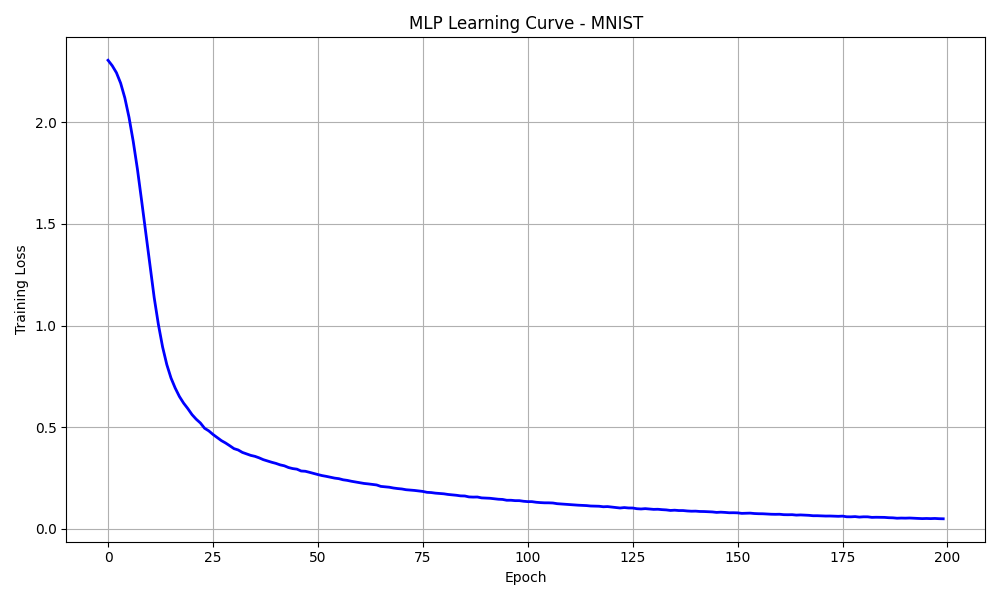
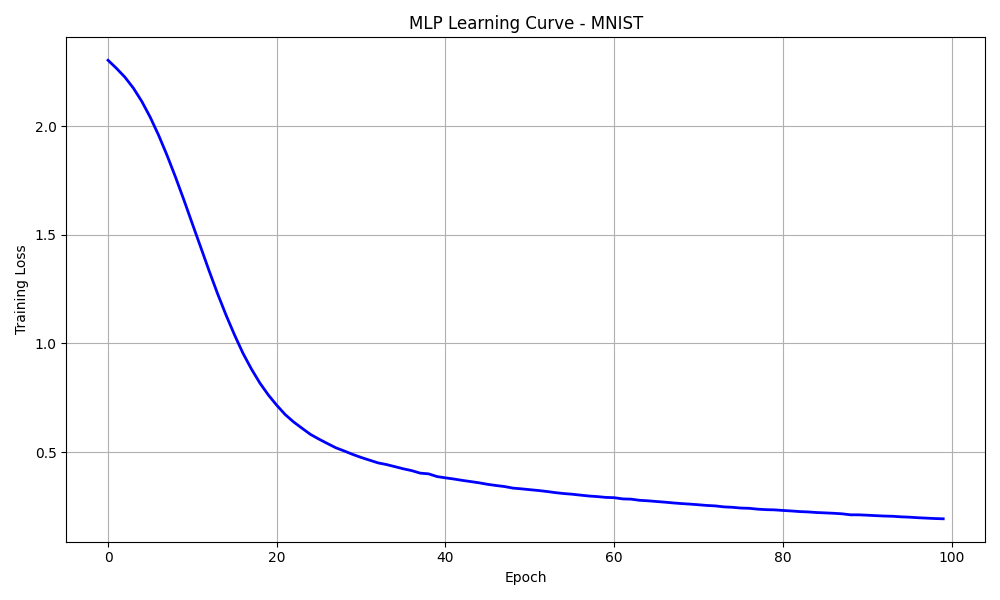
Final stage 2 model with dropout

diff --git a/code/stage_2_code/Method_MLP.py b/code/stage_2_code/Method_MLP.py
@@ -14,7 +14,7 @@ import numpy as np
 
 class Method_MLP(method, nn.Module):
     data = None
-    max_epoch = 200
+    max_epoch = 100
     learning_rate = 1e-3
     loss_history = []
 
@@ -22,25 +22,18 @@ class Method_MLP(method, nn.Module):
         method.__init__(self, mName, mDescription)
         nn.Module.__init__(self)
 
-        # ===== Bigger architecture: 784 -> 512 -> 256 -> 128 -> 10 =====
-        self.fc_layer_1 = nn.Linear(784, 512)
-        self.fc_layer_2 = nn.Linear(512, 256)
-        self.fc_layer_3 = nn.Linear(256, 128)
-        self.fc_layer_4 = nn.Linear(128, 10)
+        # ===== Model architecture: 784 -> 256 -> 128 -> 10 =====
+        self.fc_layer_1 = nn.Linear(784, 256)
+        self.fc_layer_2 = nn.Linear(256, 128)
+        self.fc_layer_3 = nn.Linear(128, 10)
 
         self.activation_func_1 = nn.ReLU()
         self.activation_func_2 = nn.ReLU()
-        self.activation_func_3 = nn.ReLU()
-
-        self.dropout = nn.Dropout(p=0.3)
 
     def forward(self, x):
         h = self.activation_func_1(self.fc_layer_1(x))
-        h = self.dropout(h)
         h = self.activation_func_2(self.fc_layer_2(h))
-        h = self.dropout(h)
-        h = self.activation_func_3(self.fc_layer_3(h))
-        y_pred = self.fc_layer_4(h)  # logits (NO softmax)
+        y_pred = self.fc_layer_3(h)
         return y_pred
 
     def train_model(self, X, y):
@@ -54,7 +47,7 @@ class Method_MLP(method, nn.Module):
         self.loss_history = []
 
         for epoch in range(self.max_epoch):
-            self.train()  # set to training mode
+            self.train()
             y_pred = self.forward(X_tensor)
             train_loss = loss_function(y_pred, y_tensor)
 
@@ -75,7 +68,7 @@ class Method_MLP(method, nn.Module):
                       'Loss:', round(train_loss.item(), 4))
 
     def test(self, X):
-        self.eval()  # disable dropout during testing
+        self.eval()
         with torch.no_grad():
             X_tensor = torch.FloatTensor(np.array(X)) / 255.0
             y_pred = self.forward(X_tensor)